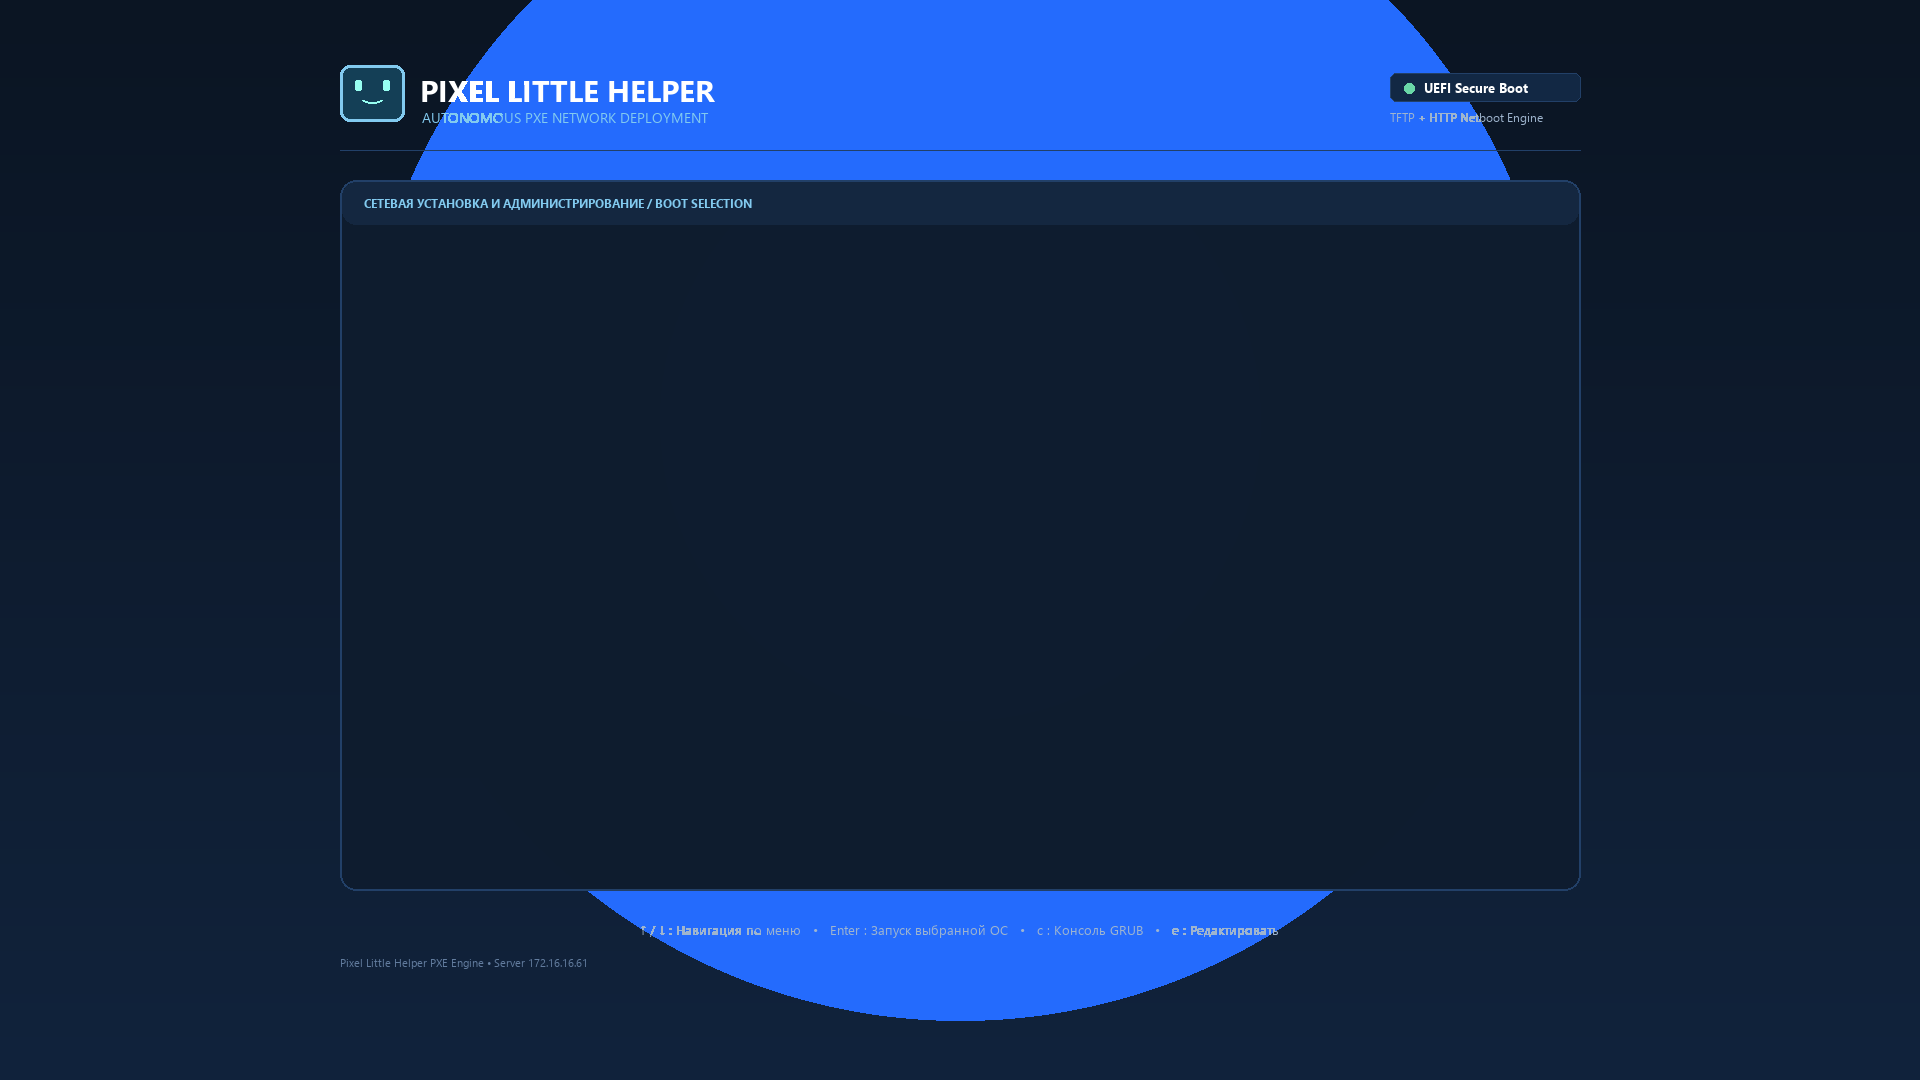
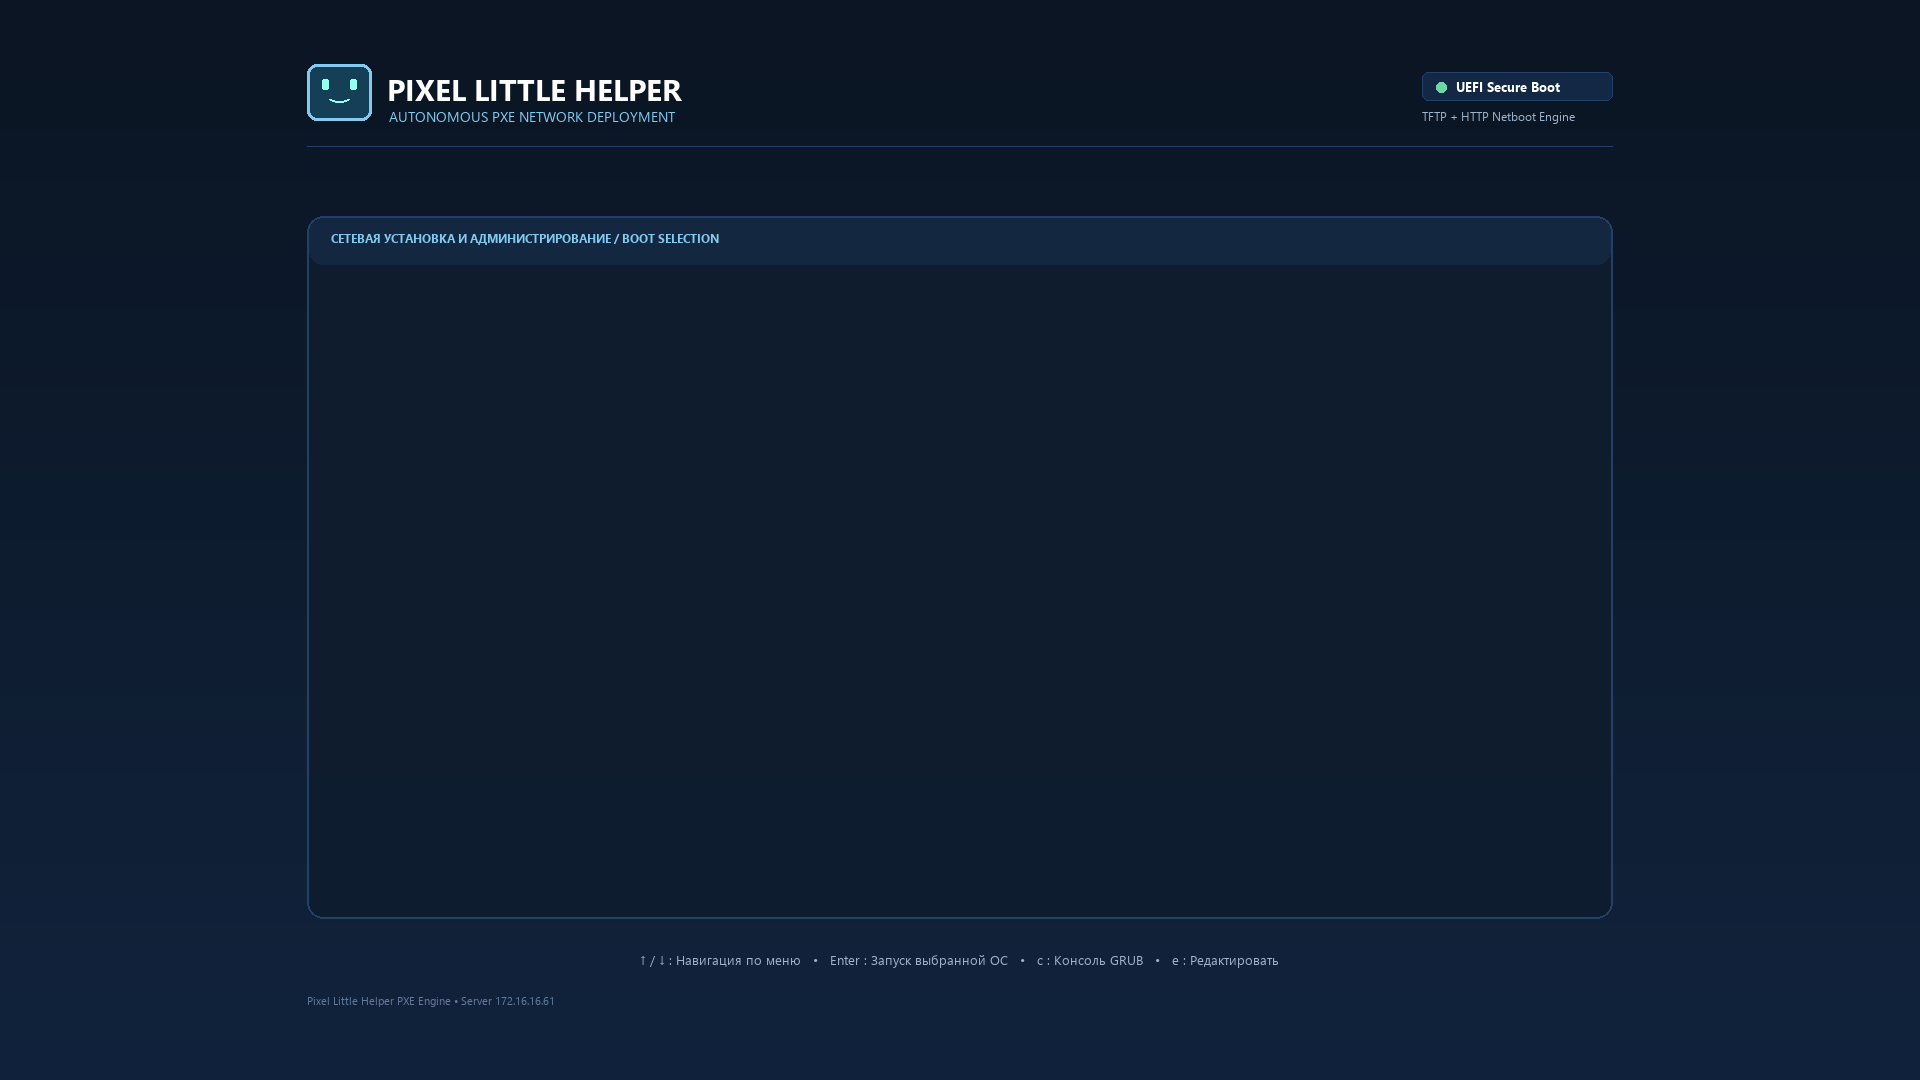
fix(pxe): responsive percentage layout for GRUB theme and active liveness check for connected clients

Changed region(s): [[0.1562, 0.0, 0.8438, 0.2444], [0.3125, 0.825, 0.6875, 0.9472]]

diff --git a/PixelHelperPXE/panel/app/main.py b/PixelHelperPXE/panel/app/main.py
@@ -1,4 +1,5 @@
 import asyncio
+import concurrent.futures
 import json
 import os
 import re
@@ -157,48 +158,73 @@ def get_system_stats() -> dict:
 
 
 def parse_pxe_clients() -> list[dict]:
+    # 1. Read kernel ARP table for real MAC addresses
+    arp_map: Dict[str, str] = {}
+    try:
+        with open("/proc/net/arp", "r", encoding="utf-8", errors="ignore") as f:
+            for line in f.readlines()[1:]:
+                parts = line.split()
+                if len(parts) >= 4 and parts[3] != "00:00:00:00:00:00":
+                    arp_map[parts[0]] = parts[3]
+    except Exception:
+        pass
+
     clients_map: Dict[str, dict] = {}
 
-    # Get dnsmasq logs either from docker or journalctl
+    # 2. Get recent dnsmasq logs (last 200 lines)
     lines = []
     if DOCKER_MODE:
         try:
-            res = subprocess.run(["docker", "logs", "--tail", "400", "pxe-dnsmasq"], capture_output=True, text=True)
+            res = subprocess.run(["docker", "logs", "--tail", "200", "pxe-dnsmasq"], capture_output=True, text=True)
             lines = res.stdout.splitlines() + res.stderr.splitlines()
         except Exception:
             pass
 
     if not lines:
         try:
-            res = subprocess.run(["journalctl", "-u", "dnsmasq", "-n", "400", "--no-pager"], capture_output=True, text=True)
+            res = subprocess.run(["journalctl", "-u", "dnsmasq", "-n", "200", "--no-pager"], capture_output=True, text=True)
             lines = res.stdout.splitlines()
         except Exception:
             pass
 
+    today_dnsmasq = datetime.now().strftime("%b %e").strip()  # e.g. "Oct 31"
+    today_dnsmasq_alt = datetime.utcnow().strftime("%b %e").strip()
+    today_nginx = datetime.utcnow().strftime("%d/%b/%Y")      # e.g. "31/Oct/2026"
+    today_nginx_alt = datetime.now().strftime("%d/%b/%Y")
+
     for line in lines:
         ts_match = re.match(r"^([A-Z][a-z]{2}\s+\d+\s+\d{2}:\d{2}:\d{2})", line)
         log_time = ts_match.group(1) if ts_match else ""
+        if log_time and not any(log_time.startswith(d) for d in (today_dnsmasq, today_dnsmasq_alt)):
+            continue
 
         # TFTP file transfer log: e.g. "sent /srv/tftp/shimx64.efi to 172.16.16.50"
         tftp_match = re.search(r"dnsmasq-tftp.*:\s+sent\s+(/\S+)\s+to\s+([0-9.]+)", line)
         if tftp_match:
             file_path = tftp_match.group(1)
             ip = tftp_match.group(2)
+            if ip in ("127.0.0.1", PXE_SERVER_IP) or ip.startswith("127."):
+                continue
+
             file_name = os.path.basename(file_path)
-            
             arch = "Unknown"
-            if "shim" in file_name or "grub" in file_name:
+            if "shim" in file_name or "bootnet" in file_name or "grub" in file_name:
                 arch = "UEFI x64 (Secure Boot)"
-            elif "lpxelinux" in file_name or ".c32" in file_name:
+            elif "pxelinux" in file_name or ".c32" in file_name:
                 arch = "Legacy BIOS (x86)"
             elif "wimboot" in file_name:
                 arch = "WinPE Network Boot"
 
+            mac = arp_map.get(ip, "-")
+            host_label = f"Host-{ip.split('.')[-1]}"
+            if mac != "-":
+                host_label = f"Device ({mac[-8:]})"
+
             if ip not in clients_map:
                 clients_map[ip] = {
                     "ip": ip,
-                    "hostname": "PXE-Client",
-                    "mac": "-",
+                    "hostname": host_label,
+                    "mac": mac,
                     "arch": arch,
                     "file": file_name,
                     "protocol": "TFTP",
@@ -211,51 +237,33 @@ def parse_pxe_clients() -> list[dict]:
                 clients_map[ip]["arch"] = arch
                 clients_map[ip]["last_seen"] = log_time
 
-        # DHCP Proxy Option 93 & vendor class inspection
-        xid_match = re.search(r"dnsmasq-dhcp.*:\s+(\d+)\s+(.+)", line)
-        if xid_match:
-            xid = xid_match.group(1)
-            content = xid_match.group(2)
-
-            if "vendor class:" in content:
-                vclass = content.split("vendor class:", 1)[1].strip()
-                if "PXEClient" in vclass:
-                    arch = "UEFI x64" if ("00007" in vclass or "00009" in vclass) else "Legacy BIOS"
-                    key = f"PXE-{xid[-6:]}"
-                    if key not in clients_map:
-                        clients_map[key] = {
-                            "ip": "Assigning...",
-                            "hostname": f"Client-{xid[-4:]}",
-                            "mac": "-",
-                            "arch": arch,
-                            "file": "shimx64.efi" if "UEFI" in arch else "lpxelinux.0",
-                            "protocol": "DHCP Proxy",
-                            "status": "Requesting Bootloader",
-                            "last_seen": log_time
-                        }
-            elif "client provides name:" in content:
-                cname = content.split("client provides name:", 1)[1].strip()
-                for client in clients_map.values():
-                    if client["hostname"].startswith("Client-") and xid.endswith(client["hostname"].split("-")[1]):
-                        client["hostname"] = cname
-
-    # Correlate Nginx access log
+    # 3. Correlate recent Nginx access log (last 60 lines)
     for log_path in ["/var/log/nginx/pxe_access.log", "/var/log/nginx/access.log"]:
         p = Path(log_path)
         if p.exists():
             try:
                 with open(p, "r", encoding="utf-8", errors="ignore") as f:
-                    for line in f.readlines()[-100:]:
+                    for line in f.readlines()[-60:]:
                         m = re.match(r"^([0-9.]+)\s+-\s+-\s+\[([^\]]+)\]\s+\"GET\s+(\S+)\s+HTTP/[0-9.]+\"\s+(\d+)", line)
                         if m:
                             ip = m.group(1)
+                            if ip in ("127.0.0.1", PXE_SERVER_IP) or ip.startswith("127."):
+                                continue
+
                             req_time = m.group(2).split()[0]
+                            if not any(req_time.startswith(d) for d in (today_nginx, today_nginx_alt)):
+                                continue
                             url_path = m.group(3)
                             status_code = m.group(4)
                             file_name = os.path.basename(url_path)
 
-                            if url_path.endswith((".cfg", ".txt", ".html")):
+                            if url_path.endswith((".cfg", ".txt", ".html", ".css", ".js", ".ico")):
                                 continue
+
+                            mac = arp_map.get(ip, "-")
+                            host_label = f"Host-{ip.split('.')[-1]}"
+                            if mac != "-":
+                                host_label = f"Device ({mac[-8:]})"
 
                             if ip in clients_map:
                                 clients_map[ip]["file"] = file_name
@@ -265,8 +273,8 @@ def parse_pxe_clients() -> list[dict]:
                             else:
                                 clients_map[ip] = {
                                     "ip": ip,
-                                    "hostname": "HTTP-Boot-Client",
-                                    "mac": "-",
+                                    "hostname": host_label,
+                                    "mac": mac,
                                     "arch": "UEFI / BIOS",
                                     "file": file_name,
                                     "protocol": "HTTP",
@@ -277,7 +285,29 @@ def parse_pxe_clients() -> list[dict]:
             except Exception:
                 pass
 
-    return list(clients_map.values())
+    if not clients_map:
+        return []
+
+    # 4. Active Liveness Check (Fast parallel ping):
+    # If the user turns off the VM, ping fails and the machine is immediately dropped from the active list.
+    def check_alive(client):
+        target_ip = client["ip"]
+        try:
+            res = subprocess.run(["ping", "-c", "1", "-W", "1", target_ip], stdout=subprocess.DEVNULL, stderr=subprocess.DEVNULL)
+            return client, (res.returncode == 0)
+        except Exception:
+            return client, False
+
+    active_clients = []
+    with concurrent.futures.ThreadPoolExecutor(max_workers=8) as ex:
+        results = list(ex.map(check_alive, clients_map.values()))
+
+    for client, is_alive in results:
+        if is_alive:
+            client["status"] = "Online (Active)" if client["status"] == "Booting" else client["status"]
+            active_clients.append(client)
+
+    return active_clients
 
 
 # -----------------------------------------------------------------------------

diff --git a/PixelHelperPXE/scripts/generate_grub_theme.py b/PixelHelperPXE/scripts/generate_grub_theme.py
@@ -76,7 +76,7 @@ def generate_background_1080p():
     im = Image.new("RGBA", (W, H))
     draw = ImageDraw.Draw(im)
     
-    # Vertical gradient
+    # Smooth deep dark gradient
     for y in range(H):
         t = y / float(H)
         r = int(C_BG_TOP[0] * (1 - t) + C_BG_BOTTOM[0] * t)
@@ -84,45 +84,42 @@ def generate_background_1080p():
         b = int(C_BG_TOP[2] * (1 - t) + C_BG_BOTTOM[2] * t)
         draw.line([(0, y), (W, y)], fill=(r, g, b, 255))
         
-    # Subtle radial glow behind center
-    cx, cy = W // 2, 420
-    for rad in range(600, 50, -50):
-        alpha = int(18 * (1 - rad / 600))
-        draw.ellipse([cx - rad, cy - rad, cx + rad, cy + rad], fill=(36, 107, 253, alpha))
-        
     # Top Header Banner
-    header_y = 65
-    draw_robot_face(draw, 340, header_y, size=64)
+    header_y = int(0.06 * H)
+    card_x1 = int(0.16 * W)
+    card_x2 = int(0.84 * W)
+    
+    draw_robot_face(draw, card_x1, header_y, size=64)
     
     f_title = get_font(30, bold=True)
     f_sub = get_font(14, bold=False)
-    draw.text((420, header_y + 4), "PIXEL LITTLE HELPER", font=f_title, fill=C_TEXT_WHITE)
-    draw.text((422, header_y + 42), "AUTONOMOUS PXE NETWORK DEPLOYMENT", font=f_sub, fill=C_CYAN_LIGHT)
+    draw.text((card_x1 + 80, header_y + 4), "PIXEL LITTLE HELPER", font=f_title, fill=C_TEXT_WHITE)
+    draw.text((card_x1 + 82, header_y + 42), "AUTONOMOUS PXE NETWORK DEPLOYMENT", font=f_sub, fill=C_CYAN_LIGHT)
     
     # Server & Status badges on right
     f_badge = get_font(13, bold=True)
     f_badge_sub = get_font(12, bold=False)
     
-    badge_x = 1580
-    draw.rounded_rectangle([badge_x - 190, header_y + 8, badge_x, header_y + 36], radius=6, fill=(18, 40, 68), outline=C_CARD_BORDER)
-    draw.ellipse([badge_x - 176, header_y + 18, badge_x - 166, header_y + 28], fill=C_GREEN_ONLINE)
-    draw.text((badge_x - 156, header_y + 13), "UEFI Secure Boot", font=f_badge, fill=C_TEXT_WHITE)
-    draw.text((badge_x - 190, header_y + 44), "TFTP + HTTP Netboot Engine", font=f_badge_sub, fill=C_TEXT_MUTED)
+    draw.rounded_rectangle([card_x2 - 190, header_y + 8, card_x2, header_y + 36], radius=6, fill=(18, 40, 68), outline=C_CARD_BORDER)
+    draw.ellipse([card_x2 - 176, header_y + 18, card_x2 - 166, header_y + 28], fill=C_GREEN_ONLINE)
+    draw.text((card_x2 - 156, header_y + 13), "UEFI Secure Boot", font=f_badge, fill=C_TEXT_WHITE)
+    draw.text((card_x2 - 190, header_y + 44), "TFTP + HTTP Netboot Engine", font=f_badge_sub, fill=C_TEXT_MUTED)
 
     # Horizontal divider
-    draw.line([(340, header_y + 85), (1580, header_y + 85)], fill=(34, 64, 104, 180), width=1)
+    draw.line([(card_x1, header_y + 82), (card_x2, header_y + 82)], fill=(34, 64, 104, 180), width=1)
     
-    # Menu container card
-    card_x1, card_y1 = 340, 180
-    card_x2, card_y2 = 1580, 890
+    # Menu container card (Proportional 16% to 84% width, 20% to 85% height)
+    card_y1 = int(0.20 * H)
+    card_y2 = int(0.85 * H)
     card_layer = Image.new("RGBA", (W, H), (0, 0, 0, 0))
     card_draw = ImageDraw.Draw(card_layer)
     card_draw.rounded_rectangle([card_x1, card_y1, card_x2, card_y2], radius=16, fill=C_CARD_BG, outline=C_CARD_BORDER, width=2)
     
     # Card Header strip
-    card_draw.rounded_rectangle([card_x1 + 2, card_y1 + 2, card_x2 - 2, card_y1 + 44], radius=14, fill=(20, 39, 64, 255))
+    hdr_h = int(0.045 * H)
+    card_draw.rounded_rectangle([card_x1 + 2, card_y1 + 2, card_x2 - 2, card_y1 + hdr_h], radius=14, fill=(20, 39, 64, 255))
     f_card_hdr = get_font(12, bold=True)
-    card_draw.text((card_x1 + 24, card_y1 + 15), "СЕТЕВАЯ УСТАНОВКА И АДМИНИСТРИРОВАНИЕ / BOOT SELECTION", font=f_card_hdr, fill=C_CYAN_LIGHT)
+    card_draw.text((card_x1 + 24, card_y1 + 14), "СЕТЕВАЯ УСТАНОВКА И АДМИНИСТРИРОВАНИЕ / BOOT SELECTION", font=f_card_hdr, fill=C_CYAN_LIGHT)
     
     im = Image.alpha_composite(im, card_layer)
     draw = ImageDraw.Draw(im)
@@ -132,11 +129,11 @@ def generate_background_1080p():
     footer_text = "↑ / ↓ : Навигация по меню   •   Enter : Запуск выбранной ОС   •   c : Консоль GRUB   •   e : Редактировать"
     bbox = draw.textbbox((0, 0), footer_text, font=f_footer)
     tw = bbox[2] - bbox[0]
-    draw.text(((W - tw) // 2, 920), footer_text, font=f_footer, fill=C_TEXT_MUTED)
+    draw.text(((W - tw) // 2, int(0.88 * H)), footer_text, font=f_footer, fill=C_TEXT_MUTED)
     
     f_copy = get_font(11, bold=False)
     copy_text = "Pixel Little Helper PXE Engine • Server 172.16.16.61"
-    draw.text((card_x1, 955), copy_text, font=f_copy, fill=(98, 124, 158))
+    draw.text((card_x1, int(0.92 * H)), copy_text, font=f_copy, fill=(98, 124, 158))
     
     # Save as 24-bit RGB PNG for maximum GRUB compatibility
     rgb_im = im.convert("RGB")
@@ -286,27 +283,25 @@ def generate_icons():
     print(f"[OK] Generated entry icons in {ICONS_DIR}")
 
 def generate_theme_txt():
-    # theme.txt specification matching GRUB 2 gfxmenu standard
-    # Background card starts at x: 340 (17.7%), y: 240 (22.2%)
-    # Width: 1240 (64.5%), Height: 620 (57.4%)
+    # Fully responsive percentage coordinates matching card on background
     txt = """# Pixel Little Helper GRUB Theme
-# High-Resolution Branded UEFI Bootloader
+# High-Resolution Responsive UEFI Bootloader
 
 title-text: ""
 desktop-image: "background.png"
-desktop-color: "#0b1523"
+desktop-color: "#070d19"
 terminal-font: "dejavu_14"
 
 + boot_menu {
-    left = 370
-    top = 245
-    width = 1180
-    height = 580
+    left = 18%
+    top = 26%
+    width = 64%
+    height = 54%
     item_font = "dejavu_14"
     selected_item_font = "dejavu_bold_14"
     item_color = "#9fb5ce"
     selected_item_color = "#ffffff"
-    item_height = 40
+    item_height = 42
     item_padding = 10
     item_spacing = 6
     icon_width = 24
@@ -318,9 +313,9 @@ terminal-font: "dejavu_14"
 
 + progress_bar {
     id = "__timeout__"
-    left = 370
-    top = 845
-    width = 1180
+    left = 18%
+    top = 80%
+    width = 64%
     height = 14
     font = "dejavu_11"
     text_color = "#82caef"

diff --git a/PixelHelperPXE/scripts/inspect_grub.py b/PixelHelperPXE/scripts/inspect_grub.py
@@ -5,3 +5,4 @@ with open('/srv/tftp/debian-installer/amd64/grubx64.efi', 'rb') as f:
 print("SET:", [m.decode(errors='ignore') for m in re.findall(rb"set [^\x00\r\n]+", b)][:10])
 print("PREFIX:", [m.decode(errors='ignore') for m in re.findall(rb"prefix[^\x00\r\n]+", b)][:10])
 print("CFG:", [m.decode(errors='ignore') for m in re.findall(rb"[a-zA-Z0-9_/.-]*grub\.cfg", b)][:10])
+

diff --git a/PixelHelperPXE/scripts/inspect_script.py b/PixelHelperPXE/scripts/inspect_script.py
@@ -6,3 +6,4 @@ if idx != -1:
     start = max(0, idx - 200)
     end = min(len(b), idx + 300)
     print(b[start:end].decode('latin1', errors='ignore'))
+
